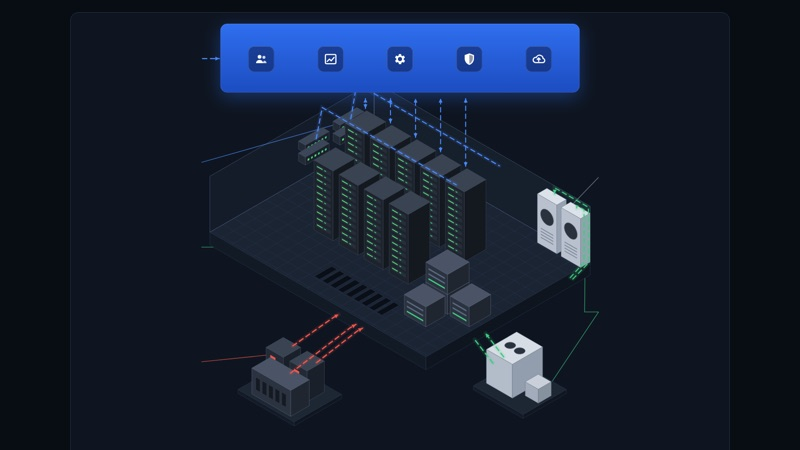
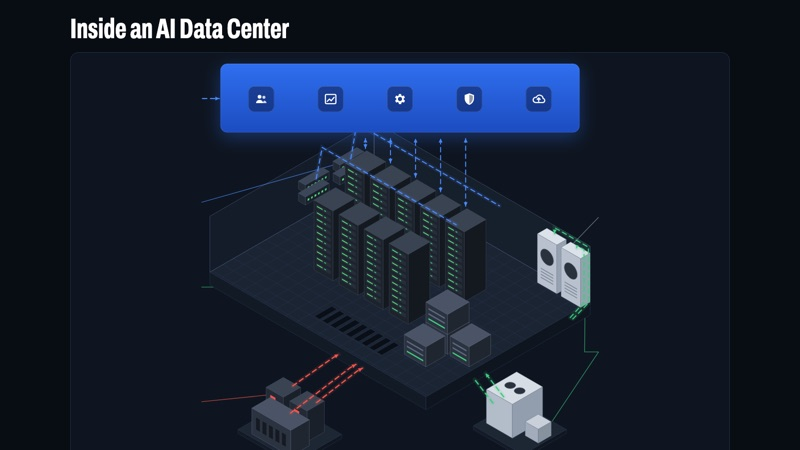
AI data center: add page title and subtitle; thumbnail with title

diff --git a/anatomy/ai-data-center/index.html b/anatomy/ai-data-center/index.html
@@ -97,10 +97,18 @@ body{background:var(--page);color:var(--ink);font-family:"Archivo",system-ui,san
 #tip p{margin:0}
 
 .hint{max-width:1320px;margin:12px auto 0;font-size:13px;color:var(--muted)}
+.pagehead{max-width:1320px;margin:6px auto 18px}
+.pagehead h1{margin:0;font-stretch:62%;font-weight:700;font-size:clamp(34px,5vw,56px);line-height:1;color:#fff}
+.pagehead .sub{margin:8px 0 0;font-size:17px;color:var(--soft);max-width:70ch}
 </style>
 </head>
 <body>
 <nav class="home-nav" aria-label="Site"><a href="https://mekhatria.github.io/interactive-chart/anatomy/"><svg width="16" height="16" viewBox="0 0 24 24" fill="none" stroke="currentColor" stroke-width="2.2" stroke-linecap="round" stroke-linejoin="round" aria-hidden="true"><path d="M3 10.5 12 3l9 7.5"/><path d="M5 9.5V20a1 1 0 0 0 1 1h4v-6h4v6h4a1 1 0 0 0 1-1V9.5"/></svg><span>All anatomy charts</span></a></nav>
+
+<header class="pagehead">
+  <h1>Inside an AI Data Center</h1>
+  <p class="sub">The building blocks of an AI data center, and how data, power and cooling flow between them. Hover any part to see what it does.</p>
+</header>
 
 <div class="scroller">
   <div class="frame" id="frame">
